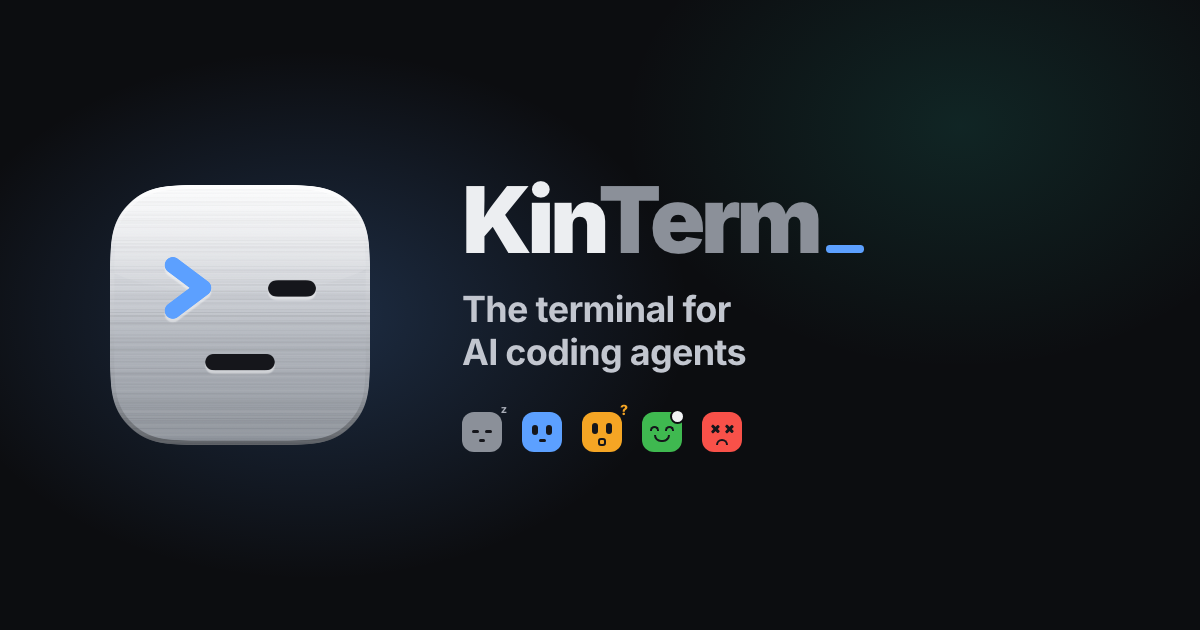
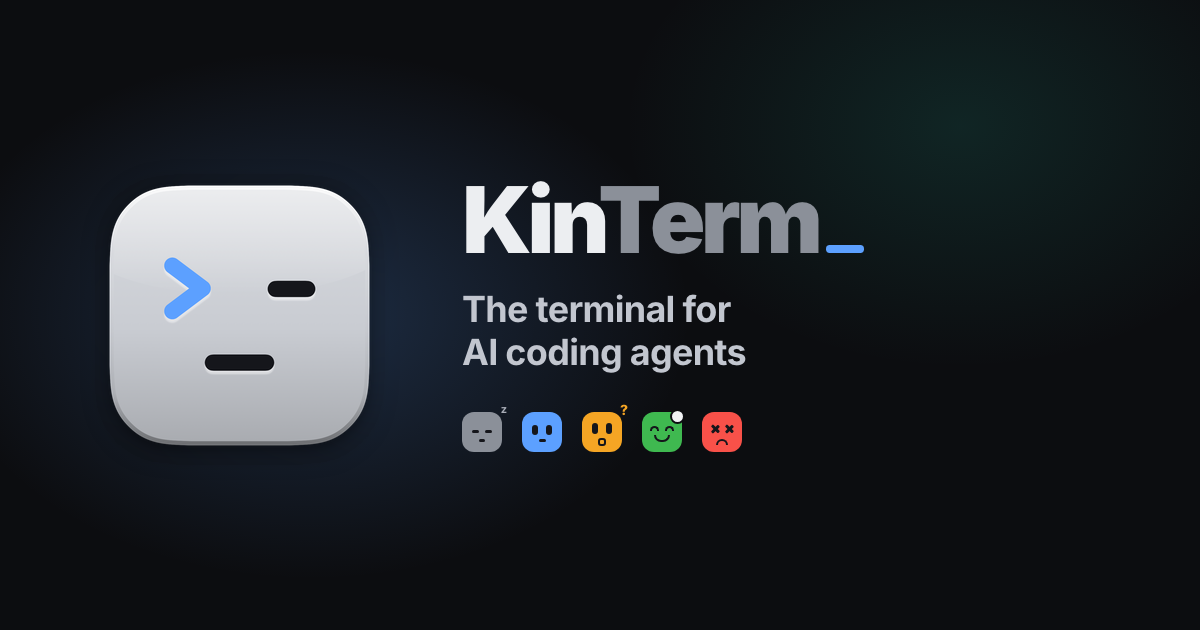
site: c5bc4d6c7

Changed region(s): [[0.0925, 0.5127, 0.3083, 0.7238]]

diff --git a/index.html b/index.html
@@ -11,7 +11,7 @@
 <meta property="og:url" content="https://lakpriya.com/kinterm/">
 <meta property="og:title" content="KinTerm · The terminal for AI coding agents">
 <meta property="og:description" content="Run Claude Code in every tab. Each tab's face shows what its agent is doing: working, done or waiting on you. Free and open source for macOS.">
-<meta property="og:image" content="https://lakpriya.com/kinterm/og.png?v=2">
+<meta property="og:image" content="https://lakpriya.com/kinterm/og.png?v=3">
 <meta property="og:image:width" content="1200">
 <meta property="og:image:height" content="630">
 <meta property="og:image:alt" content="KinTerm, the terminal for AI coding agents, with its five agent faces">
@@ -19,7 +19,7 @@
 <meta name="twitter:card" content="summary_large_image">
 <meta name="twitter:title" content="KinTerm · The terminal for AI coding agents">
 <meta name="twitter:description" content="Every tab is a face that shows what its agent is doing. Free and open source for macOS.">
-<meta name="twitter:image" content="https://lakpriya.com/kinterm/og.png?v=2">
+<meta name="twitter:image" content="https://lakpriya.com/kinterm/og.png?v=3">
 <script type="application/ld+json">
 {
   "@context": "https://schema.org",
@@ -28,7 +28,7 @@
   "description": "The terminal for AI coding agents. Every tab is a face that shows what its agent is doing: working, done or waiting on you.",
   "url": "https://lakpriya.com/kinterm/",
   "downloadUrl": "https://github.com/lakpriya1s/kinterm/releases/latest/download/KinTerm.dmg",
-  "image": "https://lakpriya.com/kinterm/og.png?v=2",
+  "image": "https://lakpriya.com/kinterm/og.png?v=3",
   "applicationCategory": "DeveloperApplication",
   "operatingSystem": "macOS 13 or later",
   "license": "https://opensource.org/licenses/MIT",
@@ -853,25 +853,21 @@ const PROMPT = `<path d="M29 37L43 47.5L29 58" fill="none" stroke="#5ca0ff" stro
 const exprSVG = e => e === 'prompt' ? PROMPT : `<g transform="scale(3)">${EXPR[e]}</g>`;
 // A color mixed toward another by f.
 const mix = (a, b, f) => '#' + [1, 3, 5].map(i => Math.round(parseInt(a.substr(i, 2), 16) * (1 - f) + parseInt(b.substr(i, 2), 16) * f).toString(16).padStart(2, '0')).join('');
-const SILVER = [[0, '#f4f5f7'], [.45, '#c9ccd2'], [.55, '#b7bbc2'], [1, '#8e939b']];
 
 // One glossy agent face, 120 square: lit from above, a reflection over the
-// top half, a rim, and the features pressed in. The brand face is brushed
-// aluminium.
+// top half, a rim, and the features pressed in. The brand face is silver.
 let uid = 0;
 function markInner(expr = 'prompt') {
-  const id = 'km' + (++uid), brand = expr === 'prompt';
-  const c = C[expr];
-  const stops = brand ? SILVER : [[0, mix(c, '#ffffff', .3)], [.55, c], [1, mix(c, '#000000', .2)]];
+  const id = 'km' + (++uid);
+  const c = expr === 'prompt' ? '#c9ccd2' : C[expr];
+  const stops = [[0, mix(c, '#ffffff', .3)], [.55, c], [1, mix(c, '#000000', .2)]];
   const face = 'x="0" y="0" width="120" height="120" rx="30"';
   return `<defs><linearGradient id="${id}b" x1="0" y1="0" x2="0" y2="1">${stops.map(([o, c]) => `<stop offset="${o}" stop-color="${c}"/>`).join('')}</linearGradient>`
-    + `<linearGradient id="${id}g" x1="0" y1="0" x2="0" y2="1"><stop offset="0" stop-color="#fff" stop-opacity="${brand ? .6 : .5}"/><stop offset="1" stop-color="#fff" stop-opacity="0"/></linearGradient>`
+    + `<linearGradient id="${id}g" x1="0" y1="0" x2="0" y2="1"><stop offset="0" stop-color="#fff" stop-opacity=".5"/><stop offset="1" stop-color="#fff" stop-opacity="0"/></linearGradient>`
     + `<linearGradient id="${id}r" x1="0" y1="0" x2="0" y2="1"><stop offset="0" stop-color="#fff" stop-opacity=".9"/><stop offset=".25" stop-color="#fff" stop-opacity=".15"/><stop offset=".8" stop-color="#000" stop-opacity=".05"/><stop offset="1" stop-color="#000" stop-opacity=".35"/></linearGradient>`
     + `<clipPath id="${id}c"><rect ${face}/></clipPath>`
     + `<filter id="${id}e" x="-20%" y="-20%" width="140%" height="140%"><feDropShadow dx="0" dy="1.6" stdDeviation=".3" flood-color="#fff" flood-opacity=".45"/></filter>`
-    + (brand ? `<filter id="${id}n" x="0" y="0" width="100%" height="100%"><feTurbulence type="fractalNoise" baseFrequency="0.003 0.9" numOctaves="2" seed="4"/><feColorMatrix values="0 0 0 0 1  0 0 0 0 1  0 0 0 0 1  0 0 0 .55 0"/><feComposite in2="SourceGraphic" operator="in"/></filter>` : '')
     + `</defs><rect class="front" ${face} fill="url(#${id}b)"/>`
-    + (brand ? `<g clip-path="url(#${id}c)" opacity=".5"><rect ${face} filter="url(#${id}n)"/></g>` : '')
     + `<path d="M30 2h60a28 28 0 0 1 28 28v8C90 54 30 54 2 40V30A28 28 0 0 1 30 2z" fill="url(#${id}g)"/>`
     + `<rect ${face} fill="none" stroke="url(#${id}r)" stroke-width="4" clip-path="url(#${id}c)"/>`
     + `<g class="expr" fill="${INK}" filter="url(#${id}e)">${exprSVG(expr)}</g>`;
